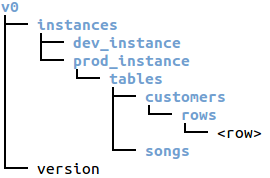
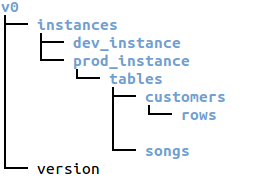
REST-53. Remove the row endpoint.
commit: https://github.com/kijiproject/kijiproject.github.com/commit/5acea3108940a0db74b913c328f92d11cfaab514

Changed region(s): [[0.8, 0.7303, 0.9778, 0.7865], [0.6815, 0.7022, 0.7704, 0.7584]]

diff --git a/kijiproject.github.com/_posts/userguides/rest/DEVEL/2013-01-01-rest-operations.md b/kijiproject.github.com/_posts/userguides/rest/DEVEL/2013-01-01-rest-operations.md
@@ -26,8 +26,6 @@ The HTTP operations supported by the KijiREST API are the following:
 
 * /v1/instances/&lt;instance&gt;/tables/&lt;table&gt;/rows	[GET](#rows-get), [POST](#rows-post)
 
-* /v1/instances/&lt;instance&gt;/tables/&lt;table&gt;/rows/&lt;row&gt;	[GET](#row-get), [PUT](#row-put)
-
 The following sections describe these operations in two groups:
 
 * [Operations on rows](#ops-on-rows)
@@ -60,97 +58,6 @@ Returns:
   rowKey: "9ee9800000004d64159b"
 }
 </pre>
-<a id="row-get"> </a>
-### Row Resource: GET
-
-Retrieves a single JSON-encoded row from a Kiji table:
-
-    GET /v1/instances/<instance>/tables/<table>/rows/<hexEntityId>
-
-#### Parameters:
-
-* `cols` (single, optional, default=`*`) - A comma-separated list of column family or column
-        family:qualifier to return. Specify `*` for all columns. Specifying just a column
-        family will return values for all columns in the family and their qualifiers.
-
-* `versions` (single, optional, default=1) - An integer representing the number of versions
-        per cell to return for the given row. Specify `versions=all` to retrieve all versions of
-        each column specified in the cols parameter.
-
-* `timerange` (single, optional) - A string denoting the time range
-        to return. Specify the time range `min..max` where `min` and `max` are the ms since UNIX epoch.
-        `min` and `max` are both optional; however, if a value is provided for this parameter,
-        at least one of min/max must be present). Specifying no timerange returns the most recent value
-        for each column specified.
-
-#### Examples:
-
-Get a single row:
-
-    GET /v1/instances/default/tables/users/rows/9ee9800000004d64159b
-
-Restrict to only return a few columns:
-
-    GET /v1/instances/default/tables/users/rows/9ee9800000004d64159b?cols=info:name,info:email
-
-Restrict to return two cells per column within the specified timestamp range:
-
-    GET /v1/instances/default/tables/users/rows/9ee9800000004d64159b?timerange=0..123&versions=2
-
-<a id="row-put"> </a>
-### Row Hex Entity ID: PUT
-
-A PUT request to a row's hex entity ID inserts or updates data in the identified
-row in a Kiji table. The request returns the row with only the most recent version of the
-columns that were inserted.
-
-    PUT /v1/instances/<instance>/tables/<table>/rows/<hexEntityId>
-
-This operation will not replace the entire existing row but will replace cells and append
-where cells in the request aren't present in the row to be updated. To enforce the
-idempotency requirement of the [HTTP spec](http://www.w3.org/Protocols/rfc2616/rfc2616-sec9.html),
-cell timestamps are required so as to avoid the creation of multiple cells with new timestamps
-when multiple PUTs are invoked.
-
-#### Parameters:
-
-* `<family:qualifier>` (multiple, required) - value (as a JSON string) to put into the
-        specified <family:qualifier> column.  At least one needs to be specified for a valid PUT.
-
-*  `timestamp` (single, required) - global timestamp for each cell in this PUT.
-        This parameter is overruled by the `timestamp.<family:qualifier>` parameter for
-        individual columns.
-
-* `timestamp.<family:qualifier>` (multiple, optional) - specific timestamp to use for
-        putting the `<family:qualifier>` column in this put.  Note: this overrides the global
-        timestamp specified by the `timestamp` parameter.
-
-* `schema.<family:qualifier>` (multiple, optional, defaults to schema specified in the
-        table layout) - When an application is manually managing one or more
-        schemas applied to a cell in a Kiji table, a KijiREST operation writing to a
-        cell can specify which schema to use using this parameter. It is the schema
-        (as a JSON string) of the cell to be to put into the specified
-        `<family:qualifier>` column.
-
-#### Notes:
-
-`<family:qualifier>` is a required parameter with many of the keys in this call.
-It refers to the Kiji column in "family:qualifier" format that the value is associated with.
-
-#### Examples:
-
-Put a single cell:
-
-    PUT /v1/instances/default/tables/users/rows/9ee9800000004d64159b?info:name=John%20Smith&timestamp=0
-
-Put many cells. In this example, the hex entity ID for the row is indicated by "{row}":
-
-    PUT /v1/instances/default/tables/users/rows/9ee9800000004d64159b?info:name=John%20Smith&info:email=john.smith@mail.com&timestamp=0
-
-Put many cells while controlling the schema used for a given cell:
-
-    PUT /v1/instances/default/tables/users/rows/9ee9800000004d64159b?info:name=John%20Smith&info:email=john.smith@mail.com&timestamp=0&schema.info:name="string"
-
 <a id="rows-get"> </a>
 ### Rows: GET
 

diff --git a/kijiproject.github.com/_posts/userguides/rest/DEVEL/2013-01-01-rest-resources.md b/kijiproject.github.com/_posts/userguides/rest/DEVEL/2013-01-01-rest-resources.md
@@ -56,13 +56,6 @@ Every table contains a collection named "rows".
 
     /v1/instances/<instance>/tables/<table>/rows/
 
-#### /v1/instances/&lt;instance&gt;/tables/&lt;table&gt;/rows/&lt;hexRowKeyId&gt;
-
-Each row is identified by the ASCII encoding of its hexadecimal entity ID. Rows are the
-deepest identifiable resource.
-
-    /v1/instances/<instance>/tables/<table>/rows/<hex_hbase_row_id>
-
 #### /v1/version
 
 Every KijiREST service is associated with a single Kiji cluster and the cluster may be
